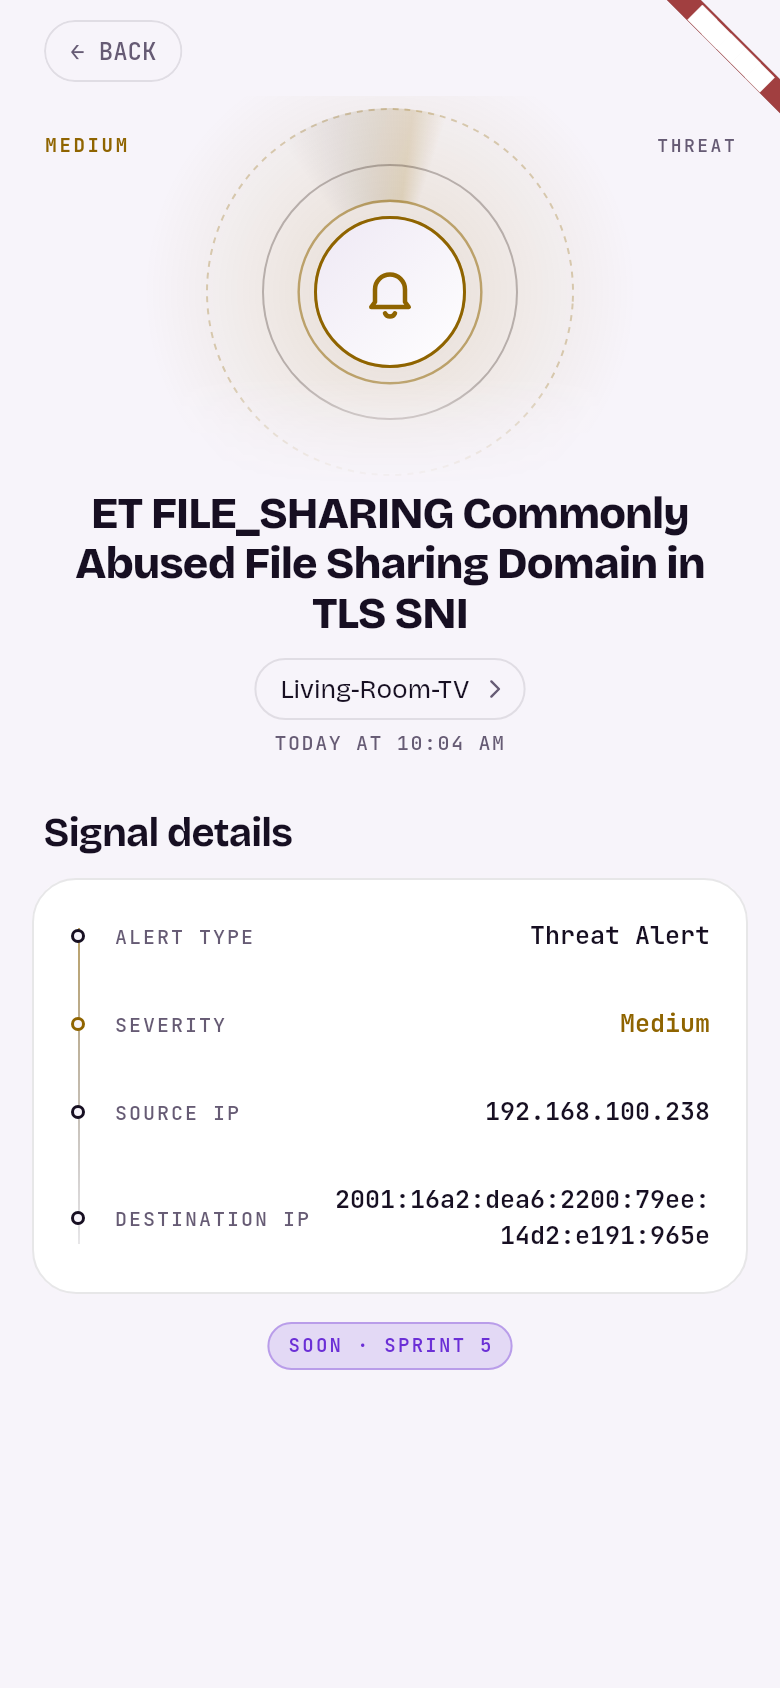
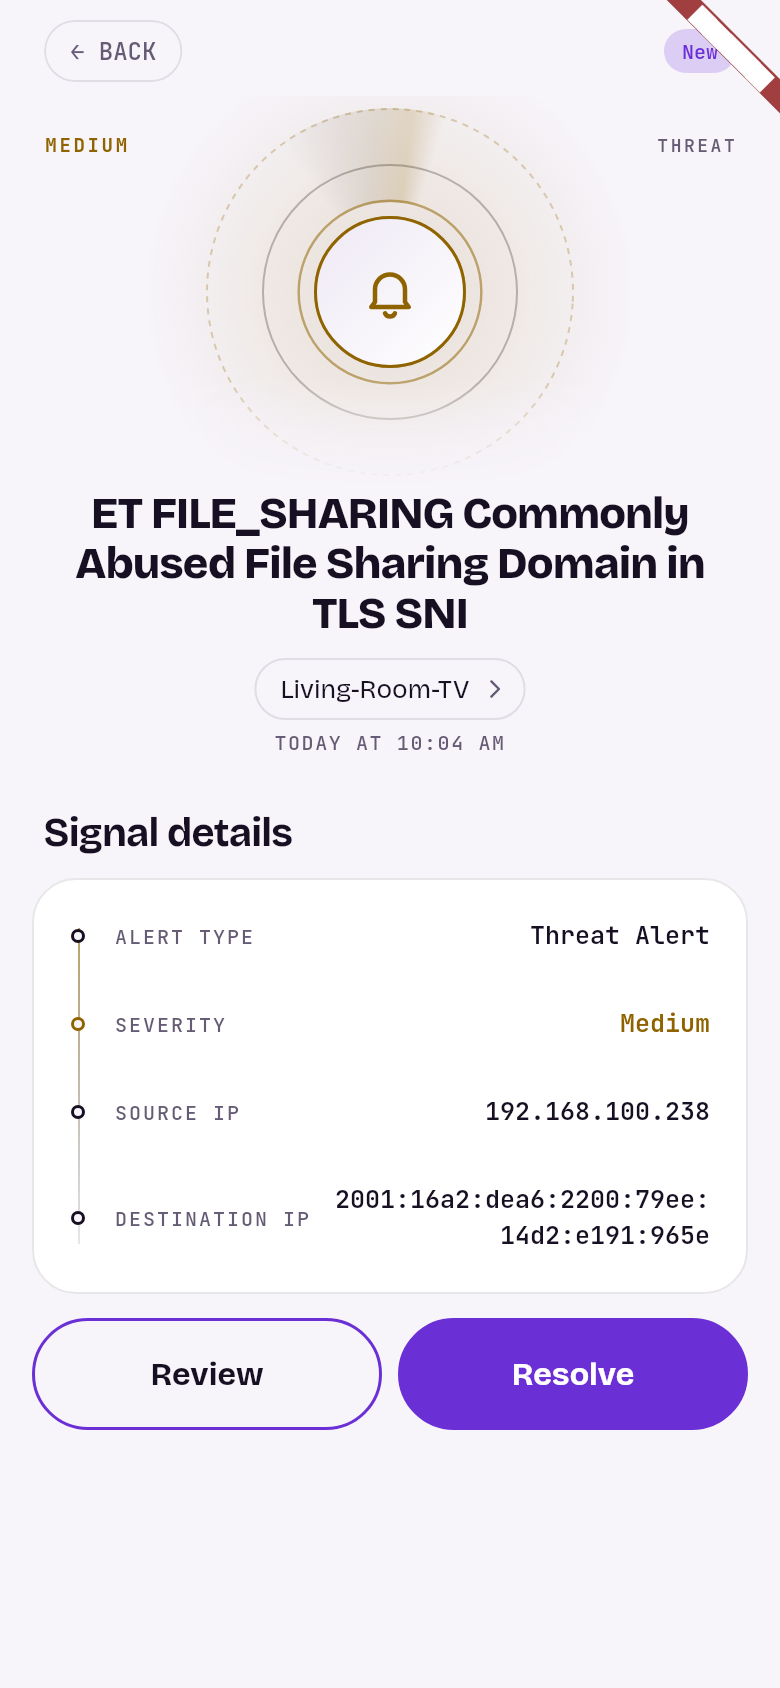
test(ui): regenerate screenshots for PBI-22 + UI changes; add device-list
Golden fixture now overrides getOpenAlertCount/getDeviceAlerts/getAlertById so
the captures reflect the real data flow. Screenshots: alerts-tab (count + open
alerts + tabs), alert-details (Review/Resolve + state badge), device-list (no
duplicate online count). Copied to docs/sprint-2/evidence/ui/.

Changed region(s): [[0.1846, 0.7701, 0.9846, 0.8626], [0.8615, 0.0, 0.9231, 0.0616], [0.0308, 0.8009, 0.0615, 0.8318]]

diff --git a/app/mobile/test/ui_goldens_test.dart b/app/mobile/test/ui_goldens_test.dart
@@ -6,6 +6,7 @@ import 'package:assas_core/assas_core.dart';
 import 'package:assas_mobile/screens/alerts/alert_details_screen.dart';
 import 'package:assas_mobile/screens/alerts/alert_list_screen.dart';
 import 'package:assas_mobile/screens/devices/device_details_screen.dart';
+import 'package:assas_mobile/screens/devices/device_list_screen.dart';
 import 'package:assas_mobile/screens/pairing/pairing_screen.dart';
 import 'package:assas_mobile/screens/settings/settings_screen.dart';
 import 'package:assas_mobile/widgets/splash_gate.dart';
@@ -25,9 +26,7 @@ class _Repo extends DemoRepository {
     mac: _mac, ip: '192.168.100.238', ipv6: [_ipv6], hostname: 'Living-Room-TV',
     vendor: 'Samsung', deviceType: 'Smart TV / Media Device',
     presence: Presence.online, trusted: true, monitored: true);
-  @override Future<List<Device>> getDevices() async => [_dev];
-  @override Future<Device> getDevice(String mac) async => _dev;
-  @override Future<List<SecurityAlert>?> getAlerts() async => [
+  final List<SecurityAlert> _list = [
     SecurityAlert.fromApi({
       'id':'1','kind':'threat','title':'ET FILE_SHARING Commonly Abused File Sharing Domain in TLS SNI',
       'device_mac':_mac,'device_name':'Living-Room-TV','time':'2026-11-04T10:04:00',
@@ -41,6 +40,18 @@ class _Repo extends DemoRepository {
       'rule_id':'2210054','occurrence_count':4,
       'first_event_time':'2026-11-04T09:38:00','last_event_time':'2026-11-04T09:40:00'}),
   ];
+  @override Future<List<Device>> getDevices() async => [_dev];
+  @override Future<Device> getDevice(String mac) async => _dev;
+  @override Future<List<SecurityAlert>?> getAlerts() async => _list;
+  @override Future<int?> getOpenAlertCount() async => _list.where((a) => a.isUnresolved).length;
+  @override Future<List<SecurityAlert>?> getDeviceAlerts(String mac) async =>
+      _list.where((a) => a.deviceMac == mac).toList();
+  @override Future<SecurityAlert?> getAlertById(String id) async {
+    for (final a in _list) {
+      if (a.id == id) return a;
+    }
+    return null;
+  }
 }
 
 Future<void> _shot(WidgetTester tester, String name, Widget Function(AppState) build) async {
@@ -70,6 +81,7 @@ void main() {
   testWidgets('alerts-tab', (t) => _shot(t, 'alerts-tab', (s) => AlertListScreen(state: s)), skip: !gen);
   testWidgets('alert-details', (t) => _shot(t, 'alert-details', (s) => AlertDetailsScreen(state: s, alertId: '1')), skip: !gen);
   testWidgets('device-alerts', (t) => _shot(t, 'device-alerts', (s) => DeviceDetailsScreen(state: s, mac: _mac)), skip: !gen);
+  testWidgets('device-list', (t) => _shot(t, 'device-list', (s) => DeviceListScreen(state: s)), skip: !gen);
 
   testWidgets('settings-narrow-maxzoom', (tester) async {
     SharedPreferences.setMockInitialValues({});
